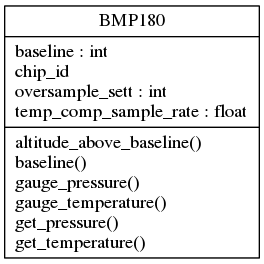
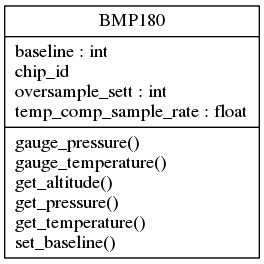
bugfixes

Changed region(s): [[0.0606, 0.5152, 0.7576, 0.9697]]

diff --git a/bmp180.py b/bmp180.py
@@ -101,19 +101,18 @@ class BMP180():
         '''
         if self._t_temperature_ready is None:
             self.gauge_temperature()
-        elif pyb.millis() <= self._t_temperature_ready:
-            self.get_temperature()
-        else:
-            UT = unp('>h', self._bmp_i2c.mem_read(2, self._bmp_addr, 0xF6))[0]
-            X1 = (UT-self._AC6)*self._AC5/2**15
-            X2 = self._MC*2**11/(X1+self._MD)
-            self._t_temperature_ready = None
-            return (((X1+X2)+8)/2**4)/10
+        while pyb.millis() <= self._t_temperature_ready:
+            pass
+        UT = unp('>h', self._bmp_i2c.mem_read(2, self._bmp_addr, 0xF6))[0]
+        X1 = (UT-self._AC6)*self._AC5/2**15
+        X2 = self._MC*2**11/(X1+self._MD)
+        self._t_temperature_ready = None
+        return (((X1+X2)+8)/2**4)/10
 
     # B5 value for temperature compensation of pressure
     def _get_B5(self):
         '''
-        Calculates and returns compensation value B5.
+        Calculates and sets compensation value B5.
         '''
         if (self._B5 is None) or ((pyb.millis()-self._t_B5) > self._dt_B5):
             X1 = (self.get_temperature()-self._AC6)*self._AC5/2**15
@@ -131,13 +130,18 @@ class BMP180():
         if self._B5 is None:
             self._get_B5()
 
-        delay = [5, 8, 14, 25]
+        if self.oversample_sett not in range(4):
+            print('oversample_sett can only be 0, 1, 2 or 3, using 3 instead')
+            self.oversample_sett = 3
+
+        delays = [5, 8, 14, 25]
+
         self._bmp_i2c.mem_write(
                                 (0x34+(self.oversample_sett << 6)),
                                 self._bmp_addr,
                                 0xF4                                )
 
-        self._t_pressure_ready = pyb.millis() + delay[self.oversample_sett]
+        self._t_pressure_ready = pyb.millis() + delays[self.oversample_sett]
         return
 
     # get pressure
@@ -149,51 +153,51 @@ class BMP180():
         self._get_B5()
         if self._t_pressure_ready is None:
             self.gauge_pressure()
-        elif pyb.millis() <= self._t_pressure_ready:
-            self.get_pressure()
+        while pyb.millis() <= self._t_pressure_ready:
+            pass
+        MSB = unp('<h', self._bmp_i2c.mem_read(1, self._bmp_addr, 0xF6))[0]
+        LSB = unp('<h', self._bmp_i2c.mem_read(1, self._bmp_addr, 0xF7))[0]
+        XLSB = unp('<h', self._bmp_i2c.mem_read(1, self._bmp_addr, 0xF8))[0]
+        UP = ((MSB << 16)+(LSB << 8)+XLSB) >> (8-self.oversample_sett)
+        B6 = self._B5-4000
+        X1 = (self._B2*(B6*B6/2**12))/2**11
+        X2 = self._AC2*B6/2**11
+        X3 = X1+X2
+        B3 = ((int((self._AC1*4+X3)) << self.oversample_sett)+2)/4
+        X1 = self._AC3*B6/2**13
+        X2 = (self._B1*(B6*B6/2**12))/2**16
+        X3 = ((X1+X2)+2)/2**2
+        B4 = self._AC4*(X3+32768)/2**15
+        B7 = (abs(UP)-B3) * (50000 >> self.oversample_sett)
+        if B7 < 0x80000000:
+            pressure = (B7*2)/B4
         else:
-            MSB = unp('<h', self._bmp_i2c.mem_read(1, self._bmp_addr, 0xF6))[0]
-            LSB = unp('<h', self._bmp_i2c.mem_read(1, self._bmp_addr, 0xF7))[0]
-            XLSB = unp('<h', self._bmp_i2c.mem_read(1, self._bmp_addr, 0xF8))[0]
-            UP = ((MSB << 16)+(LSB << 8)+XLSB) >> (8-self.oversample_sett)
-            B6 = self._B5-4000
-            X1 = (self._B2*(B6*B6/2**12))/2**11
-            X2 = self._AC2*B6/2**11
-            X3 = X1+X2
-            B3 = ((int((self._AC1*4+X3)) << self.oversample_sett)+2)/4
-            X1 = self._AC3*B6/2**13
-            X2 = (self._B1*(B6*B6/2**12))/2**16
-            X3 = ((X1+X2)+2)/2**2
-            B4 = self._AC4*(X3+32768)/2**15
-            B7 = (abs(UP)-B3) * (50000 >> self.oversample_sett)
-            if B7 < 0x80000000:
-                pressure = (B7*2)/B4
-            else:
-                pressure = (B7/B4)*2
-            X1 = (pressure/2**8)**2
-            X1 = (X1*3038)/2**16
-            X2 = (-7357*pressure)/2**16
-            self._t_pressure_ready = None
-            return pressure+(X1+X2+3791)/2**4
+            pressure = (B7/B4)*2
+        X1 = (pressure/2**8)**2
+        X1 = (X1*3038)/2**16
+        X2 = (-7357*pressure)/2**16
+        self._t_pressure_ready = None
+        return pressure+(X1+X2+3791)/2**4
 
     # pressure baseline
-    def baseline(self, dt=None):
+    def set_baseline(self, dt=None):
         '''
-        Measures the pressure for a given time and returns the mean of the
+        Measures the pressure for a given time and sets the mean of the
         measurements.
         '''
         if (dt is None) or (dt == 0):
             dt = 1000
         count = 0
         sum_pressure = 0
-        t_stop = pyb.millis()+dt
+        t_stop = pyb.millis() + dt
         while pyb.millis() < t_stop:
             sum_pressure = sum_pressure + self.get_pressure()
             count = count + 1
-        return sum_pressure / count
+        self.baseline = sum_pressure / count
+        return
 
     # altitude above reference
-    def altitude_above_baseline(self):
+    def get_altitude(self):
         '''
         Calculates and returns the altitude relative to baseline.
 
@@ -203,4 +207,8 @@ class BMP180():
         | true     |        QNH*100 |  
         | pressure | 101325 or None |  
         '''
-        return 44330*(1-(self.get_pressure()/self.baseline)**(1/5.255))
+        try:
+            return 44330*(1-(self.get_pressure()/self.baseline)**(1/5.255))
+        except ZeroDivisionError:
+            print('baseline can\'t be zero')
+            return None
